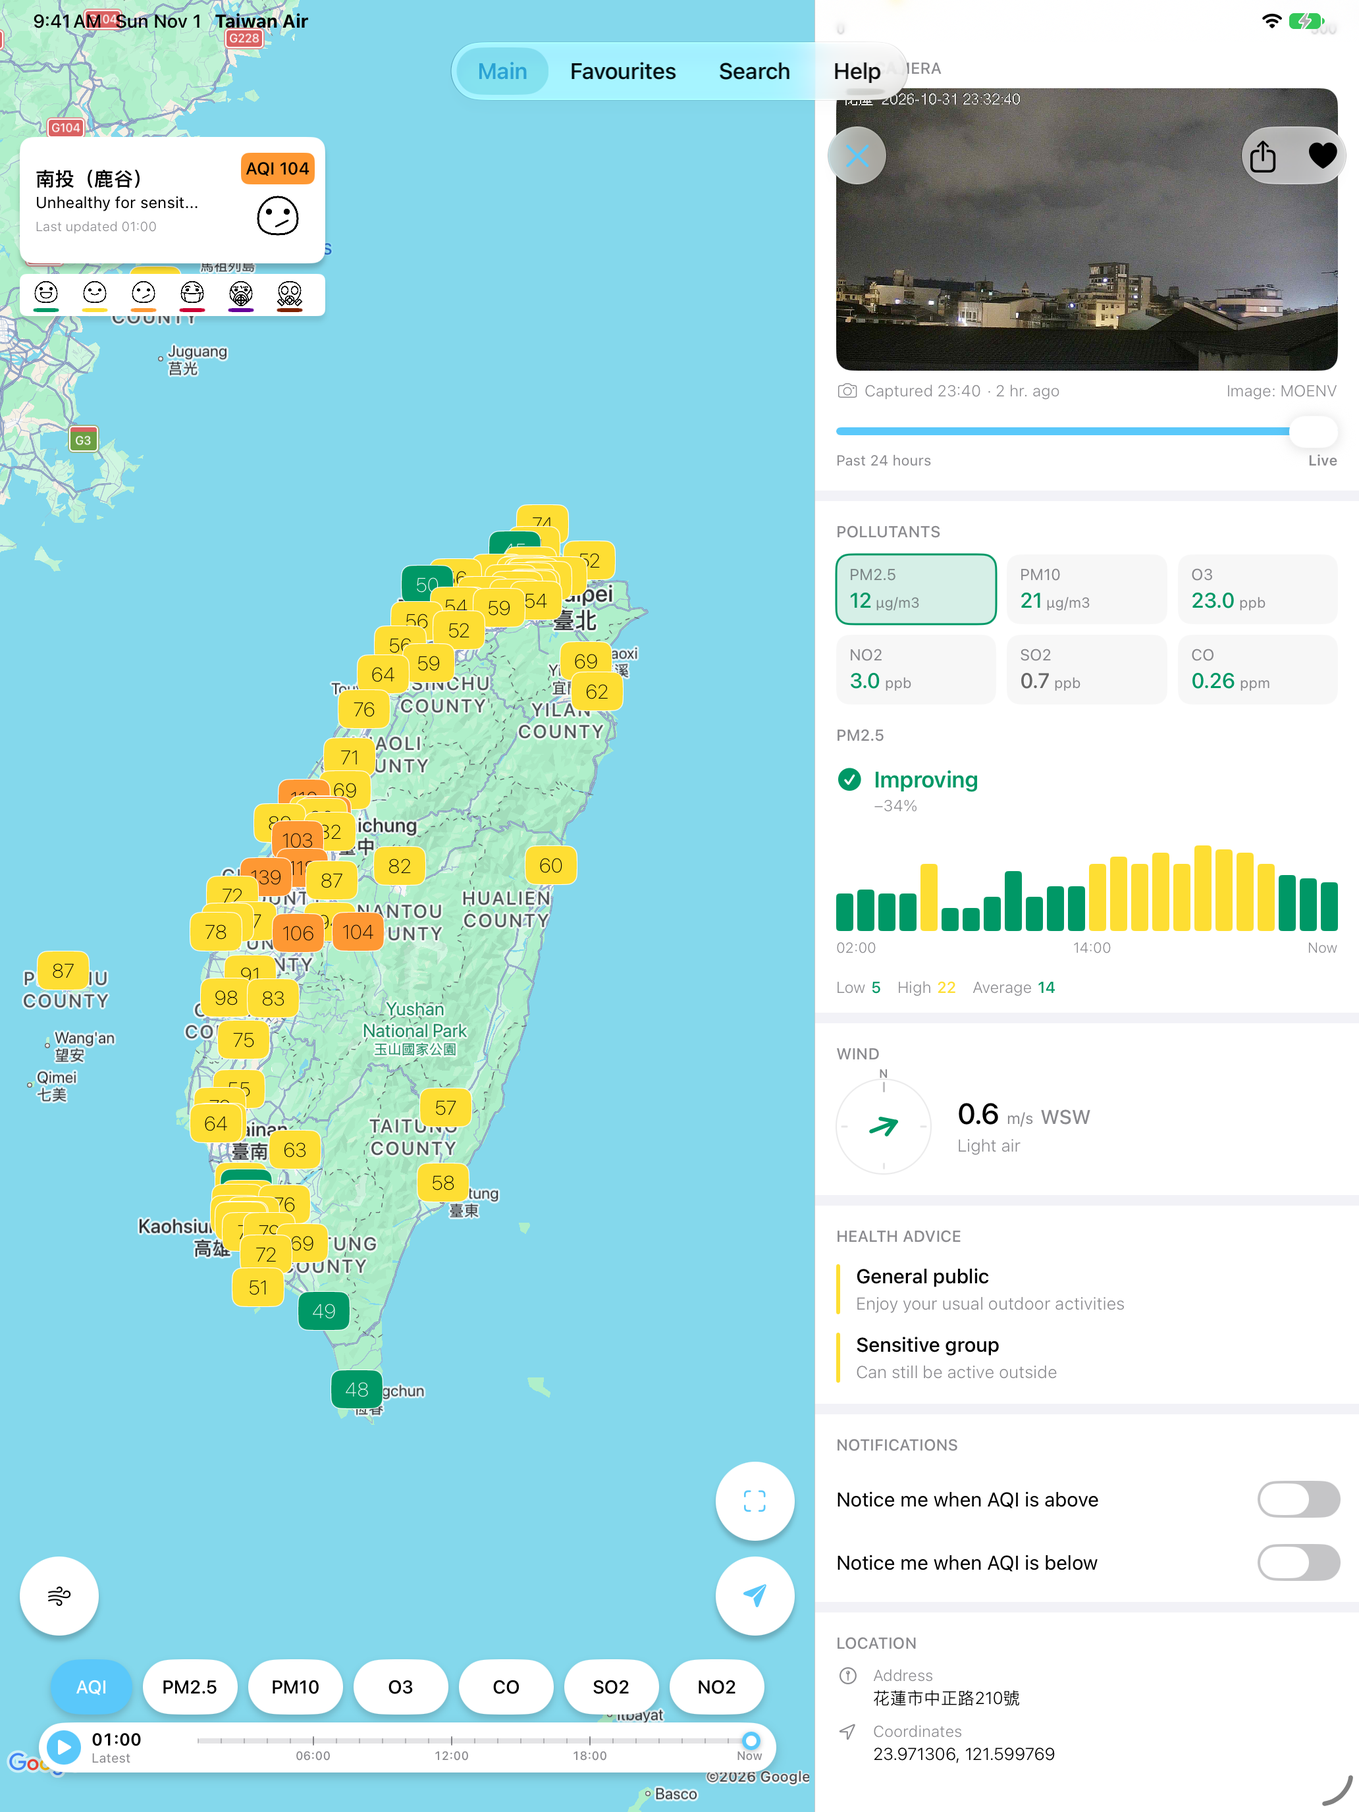
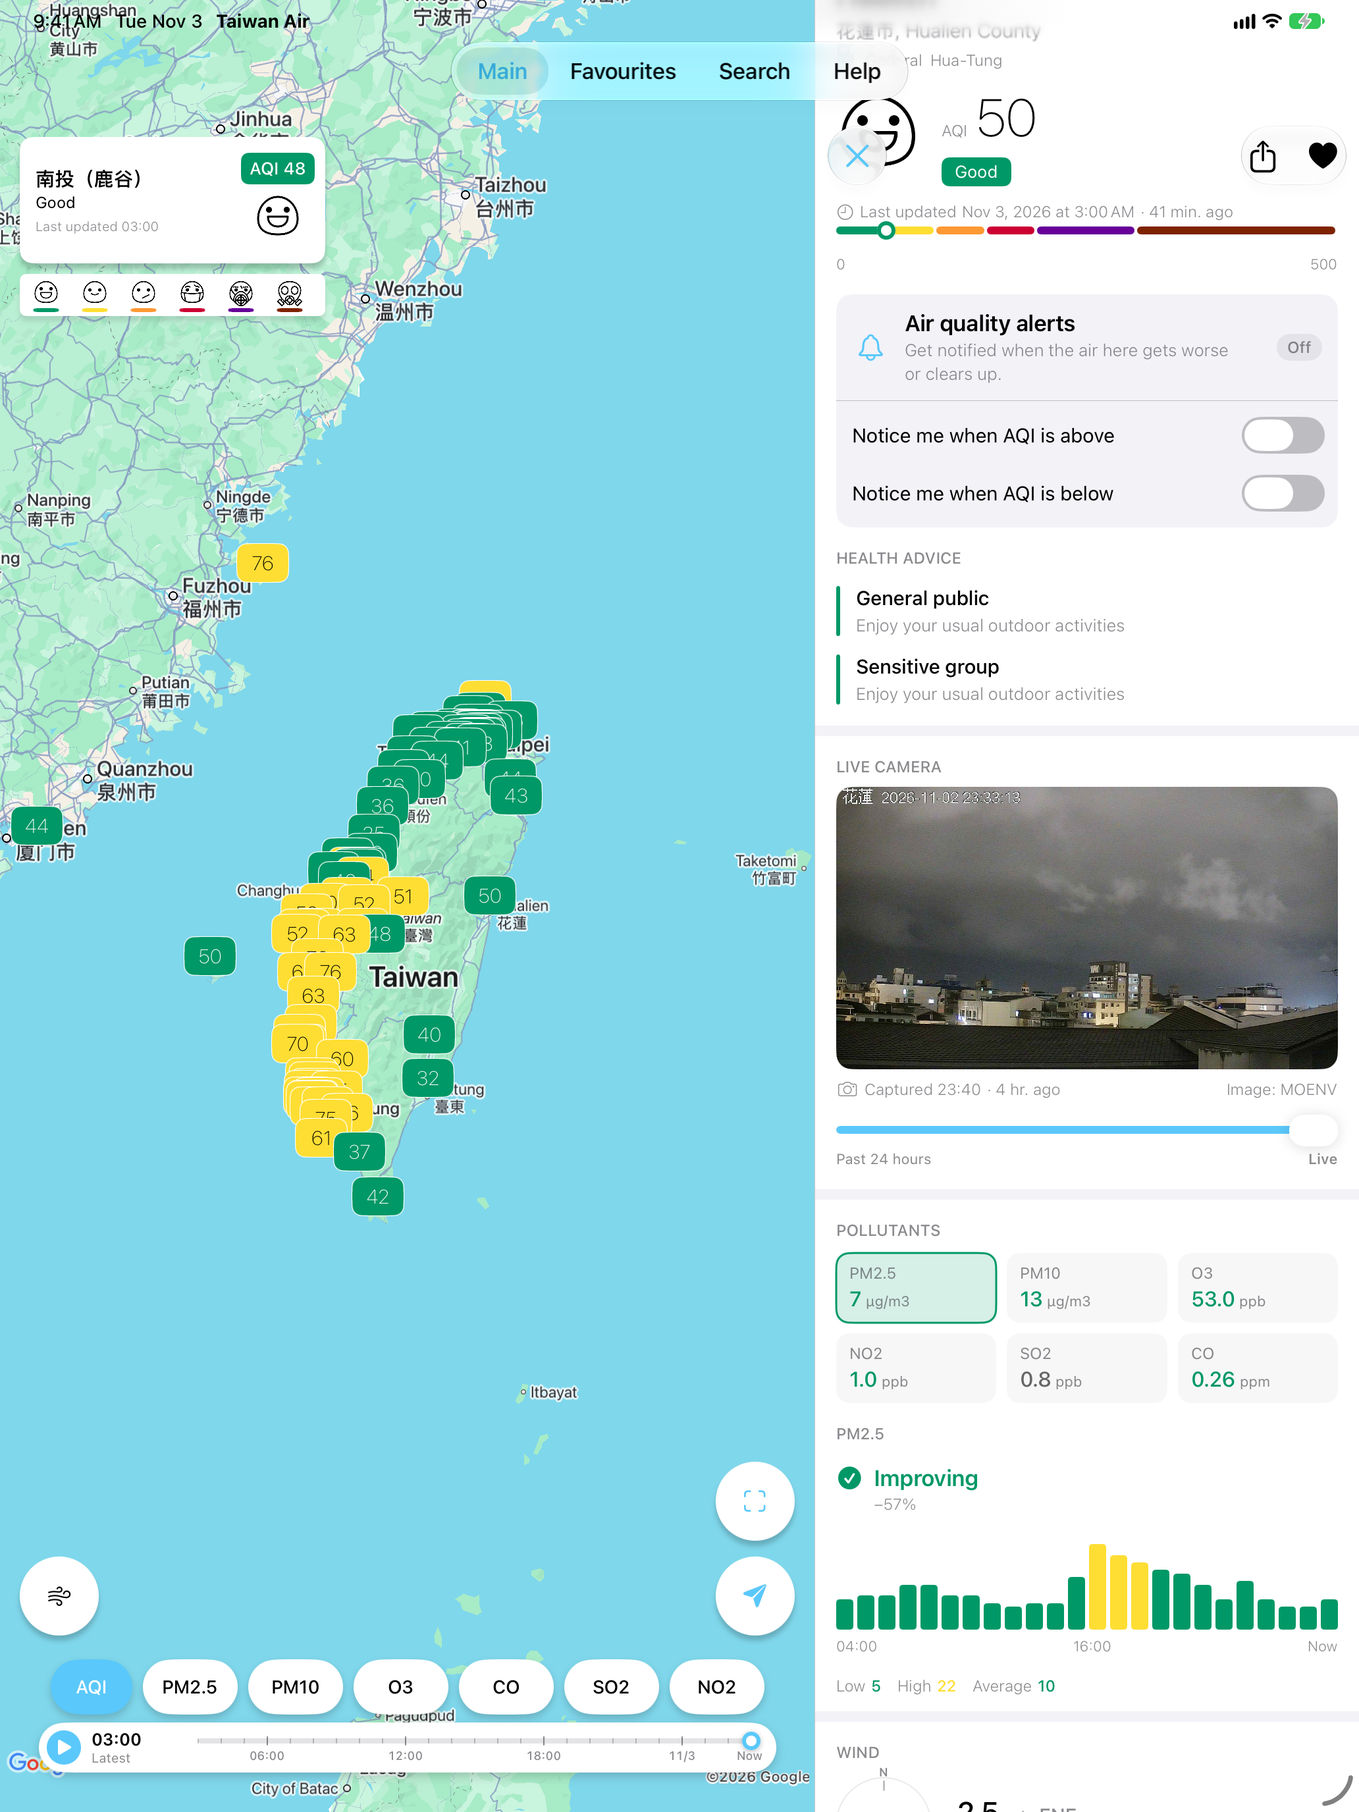
FOX-40: re-capture iPhone/iPad App Store shots on the post-FOX-25 station page (#46)
* FOX-40: re-capture iPhone/iPad App Store shots on the post-FOX-25 station page

- screenshots_raw: fresh iPhone (iPhone 17 Pro, 1206x2622) and iPad Pro 13"
  captures, en-US and zh-Hant, from this branch. The station shot now shows
  the alerts card (off, unlocked) and health advice under the scale; the
  trend shot has PM2.5 picked with its 24-hour chart.
- AppStoreScreenshotTests: skips the FOX-34 welcome flow, turns down a
  notification prompt, fails unless the station page shows the alerts card
  off and without the two-station cap (FOX-37 M3), scrolls until the
  pollutants reach the top or the page stops, and retries the PM2.5 tap
  until the cell is selected.
- PollutantGridView: the charted pollutant carries the isSelected
  accessibility trait.
- capture_screenshots: udid and derived_data options, so a worktree can
  capture on its own simulator and DerivedData.
- fastlane/README.md regenerated from the lane descriptions.

* FOX-40: screenshot harness pins onboardingLegacyInstall off (CI review)

* FOX-40: trend shots keep text clear of the floating buttons (Grok review)

scrollToTop parked the pollutants at 17% of the window and kept that
frame when the page bottomed out, so the 03 trend shots had text under
the close/share buttons: the cam caption and image credit on iPhone, the
first alert row on iPad.

It now aims the pollutants just below the toolbar buttons, then pulls the
page down until no text leaf in the scroll view intersects a floating
[…]

diff --git a/ios/TWAQIUITests/AppStoreScreenshotTests.swift b/ios/TWAQIUITests/AppStoreScreenshotTests.swift
@@ -22,6 +22,12 @@ import XCTest
 ///   SCREENSHOT_PREFIX    file name prefix: "iPhone" or "iPad"
 ///   SCREENSHOT_LANGUAGE  "en" or "zh-Hant"
 ///   SCREENSHOT_MAP_ZOOM  optional; the map's zoom, default 7.2
+///
+/// It writes nothing to OneSignal or Directus: the welcome flow is marked
+/// done, so a fresh install is never asked for notifications, a stray
+/// notification prompt is turned down, and no alert switch or heart is
+/// tapped. The station shot is checked to show the alerts card (FOX-25)
+/// switched off and unlocked before it is taken.
 final class AppStoreScreenshotTests: XCTestCase {
     private var app: XCUIApplication!
     private var outputDir: URL!
@@ -50,11 +56,16 @@ final class AppStoreScreenshotTests: XCTestCase {
 
         app = XCUIApplication()
         // NSUserDefaults' argument domain, for this launch only: `pro` hides
-        // the ad banners, the camera keys frame the whole island, the
-        // favourites are seeded without touching alerts, and the last two
-        // pick the language.
+        // the ad banners, `onboardingCompleted` skips the welcome flow (and
+        // with it the notification prompt), `onboardingLegacyInstall` keeps
+        // the launch-time prompt off even on a simulator with an older
+        // install, the camera keys frame the whole island, the favourites
+        // are seeded without touching alerts, and the last two pick the
+        // language.
         app.launchArguments = [
             "-pro", "YES",
+            "-onboardingCompleted", "YES",
+            "-onboardingLegacyInstall", "NO",
             "-lastestMapLat", "23.7",
             "-lastestMapLon", "121.0",
             "-lastestMapZoom", zoom,
@@ -88,6 +99,7 @@ final class AppStoreScreenshotTests: XCTestCase {
         wait(for: [loaded], timeout: 90)
         // Anything below the reading (forecast, cam frame) arrives after it.
         settle(seconds: 6)
+        assertAlertsCardOffAndUnlocked()
         snapshot("02 station")
 
         // 03: the pollutants scrolled up to the top, with PM2.5 picked so
@@ -104,7 +116,13 @@ final class AppStoreScreenshotTests: XCTestCase {
             .matching(NSPredicate(format: "label BEGINSWITH %@ AND label != %@", "PM2.5", "PM2.5"))
             .firstMatch
         XCTAssertTrue(pm25.waitForExistence(timeout: 10), "No PM2.5 cell in the pollutant grid")
-        pm25.tap()
+        // A tap while the page is still settling from the drags can be taken
+        // as "stop scrolling" and select nothing, so check and tap again.
+        for _ in 0..<3 where !pm25.isSelected {
+            settle(seconds: 2)
+            pm25.tap()
+        }
+        XCTAssertTrue(pm25.isSelected, "PM2.5 isn't picked, so the chart shows AQI")
         settle()
         snapshot("03 trend")
 
@@ -129,31 +147,138 @@ final class AppStoreScreenshotTests: XCTestCase {
     }
 
     /// Drags `element` up to just under the floating close and share
-    /// buttons, slowly so the scroll view doesn't coast past it.
+    /// buttons, slowly so the scroll view doesn't coast past it, then makes
+    /// sure no text is left under those buttons.
+    ///
+    /// Since FOX-25 the alerts card and health advice sit above the
+    /// pollutants, so they start well below the fold. Each drag starts in
+    /// the scroll view's right gutter, clear of the switches and the cam
+    /// scrubber. The page can bottom out before `element` reaches the
+    /// buttons (in the iPad panel it stops with the pollutants mid-screen),
+    /// which can leave a line of text under them; the page is then pulled
+    /// back down until that text clears them. The chart still fits under
+    /// the pollutants either way.
     private func scrollToTop(_ element: XCUIElement) {
-        guard element.waitForExistence(timeout: 10) else { return }
-        let window = app.windows.firstMatch.frame
-        let target = window.minY + window.height * 0.17
-        for _ in 0..<3 {
+        XCTAssertTrue(element.waitForExistence(timeout: 10), "Nothing to scroll to")
+        let scrollView = app.scrollViews.containing(NSPredicate(format: "label == %@", element.label)).firstMatch
+        let overlays = floatingControls(over: scrollView)
+        let floor = overlays.map(\.maxY).max() ?? scrollView.frame.minY
+        let gap: CGFloat = 16
+
+        // Up: the pollutants to just under the buttons, or as far as the
+        // page goes.
+        for _ in 0..<8 {
             let y = element.frame.minY
-            guard y > target + 20 else { return }
-            let distance = min(y - target, window.height * 0.6)
-            let start = element.coordinate(withNormalizedOffset: CGVector(dx: 0.5, dy: 0.5))
-            let end = start.withOffset(CGVector(dx: 0, dy: -distance))
+            guard y > floor + gap + 8 else { break }
+            drag(scrollView, by: -min(y - floor - gap, app.windows.firstMatch.frame.height * 0.5))
+            guard abs(element.frame.minY - y) > 2 else { break }
+        }
+
+        // Down: until no text is under a button. Each pull moves the lowest
+        // covered text just below the button over it; text further up can
+        // then slide under, so check again.
+        for _ in 0..<6 {
+            guard let covered = textUnder(overlays, in: scrollView) else { return }
+            drag(scrollView, by: covered.overlay.maxY + gap - covered.text.minY)
+        }
+        if let covered = textUnder(overlays, in: scrollView) {
+            XCTFail("\"\(covered.label)\" at \(covered.text) is still under a button at \(covered.overlay)")
+        }
+    }
+
+    /// What floats over the top of the station page: the close, share and
+    /// favourite buttons, and in a wide window the tab bar.
+    private func floatingControls(over scrollView: XCUIElement) -> [CGRect] {
+        let page = scrollView.frame
+        let named = app.buttons.matching(NSPredicate(format: "label IN %@", ["Close", "關閉", "Share", "分享"]))
+        let controls = app.navigationBars.buttons.allElementsBoundByIndex
+            + named.allElementsBoundByIndex
+            + app.tabBars.allElementsBoundByIndex
+        let frames = controls
+            .map(\.frame)
+            // Small controls near the top, not a container that spans the window.
+            .filter { !$0.isEmpty && $0.intersects(page) && $0.minY < page.midY && $0.height < page.height / 8 }
+        XCTAssertFalse(frames.isEmpty, "No close or share button over the station page")
+        return frames
+    }
+
+    /// The lowest piece of text in `scrollView` that one of `overlays`
+    /// covers, if any, with the overlay that covers it. A page that can't be
+    /// read fails the run: no answer is not the same as no covered text.
+    private func textUnder(_ overlays: [CGRect], in scrollView: XCUIElement)
+        -> (label: String, text: CGRect, overlay: CGRect)? {
+        let root: XCUIElementSnapshot
+        do {
+            root = try scrollView.snapshot()
+        } catch {
+            XCTFail("Couldn't read the station page to check for covered text: \(error)")
+            return nil
+        }
+        var lowest: (label: String, text: CGRect, overlay: CGRect)?
+        var pending = root.children
+        while let node = pending.popLast() {
+            pending.append(contentsOf: node.children)
+            // Leaves with a label are what a reader sees as text: labels,
+            // switches with their caption, combined rows. The cam frame and
+            // the scrubber aren't text, so they may sit under the buttons.
+            guard node.children.isEmpty, !node.label.isEmpty,
+                  node.elementType != .image, node.elementType != .slider else { continue }
+            let text = node.frame
+            // The glass circle round a toolbar glyph reaches ~8 pt past
+            // the frame XCUITest reports for the button.
+            guard let overlay = overlays.first(where: { $0.insetBy(dx: -8, dy: -8).intersects(text) }) else { continue }
+            if text.minY > lowest?.text.minY ?? -.greatestFiniteMagnitude {
+                lowest = (node.label, text, overlay)
+            }
+        }
+        return lowest
+    }
+
+    /// Moves the page by `distance` points (negative is up), slowly and with
+    /// a hold at the end so it doesn't coast. A drag loses its first few
+    /// points to the touch slop, so a short move overshoots and comes back
+    /// by the same detour; the two losses cancel.
+    private func drag(_ scrollView: XCUIElement, by distance: CGFloat) {
+        let detour: CGFloat = abs(distance) < 60 ? (distance < 0 ? -60 : 60) : 0
+        for step in detour == 0 ? [distance] : [distance + detour, -detour] {
+            let start = scrollView.coordinate(withNormalizedOffset: CGVector(dx: 0.97, dy: step < 0 ? 0.8 : 0.3))
+            let end = start.withOffset(CGVector(dx: 0, dy: step))
             start.press(forDuration: 0.1, thenDragTo: end, withVelocity: .slow, thenHoldForDuration: 0.6)
             settle(seconds: 1)
         }
     }
 
-    /// Location, notification and tracking prompts. Index 1 is the allowing
-    /// choice on each, in either language.
+    /// The alerts card FOX-25 put under the reading: present, off, and
+    /// without the two-station cap caption and locked switches it shows
+    /// until OneSignal has answered (FOX-37 M3). Fails the run rather than
+    /// capture a station page that isn't what the app shows.
+    private func assertAlertsCardOffAndUnlocked() {
+        let title = isChinese ? "空品通知" : "Air quality alerts"
+        let off = isChinese ? "未開啟" : "Off"
+        let card = app.descendants(matching: .any)
+            .matching(NSPredicate(format: "label BEGINSWITH %@", title))
+            .firstMatch
+        XCTAssertTrue(card.waitForExistence(timeout: 15), "No alerts card on the station page")
+        XCTAssertTrue(card.label.hasSuffix(off), "Alerts card isn't off: \(card.label)")
+
+        let cap = app.staticTexts[isChinese ? "最多只能設定 2 個測站" : "You can only enable at most for 2 stations"]
+        let unlocked = expectation(for: NSPredicate(format: "exists == false"), evaluatedWith: cap)
+        wait(for: [unlocked], timeout: 30)
+        XCTAssertFalse(cap.exists, "Alerts card still shows the two-station cap")
+    }
+
+    /// Location and tracking prompts are allowed (index 1 in either
+    /// language); a notification prompt is turned down (index 0), so a
+    /// capture never registers this simulator for push.
     private func dismissSystemAlerts() {
         let springboard = XCUIApplication(bundleIdentifier: "com.apple.springboard")
         for _ in 0..<3 {
             let alert = springboard.alerts.firstMatch
             guard alert.waitForExistence(timeout: 5) else { return }
+            let isNotifications = alert.label.localizedCaseInsensitiveContains("notification")
+                || alert.label.contains("通知")
             let buttons = alert.buttons
-            buttons.element(boundBy: min(1, buttons.count - 1)).tap()
+            buttons.element(boundBy: isNotifications ? 0 : min(1, buttons.count - 1)).tap()
         }
     }
 

diff --git a/ios/TWAQIUITests/DuoScreenshotTests.swift b/ios/TWAQIUITests/DuoScreenshotTests.swift
@@ -72,26 +72,8 @@ final class DuoScreenshotTests: XCTestCase {
         settle()
         snapshot("02")
 
-        // 03: the station list with that station's details beside it.
-        app.buttons[isChinese ? "搜尋" : "Search"].firstMatch.tap()
-        let search = app.searchFields.firstMatch
-        XCTAssertTrue(search.waitForExistence(timeout: 15), "No search field")
-        search.tap()
-        // Typed in English in both languages: the list also matches the
-        // English name, and the simulator keyboard can't type Chinese.
-        // Return submits the search, which also puts the keyboard away.
-        search.typeText("Hualien\n")
-        // The row's label is "name, locality" ("name、locality" in Chinese).
-        // Matching on the separator skips both the map marker (bare name) and
-        // look-alikes such as "Hualien (Meilun)".
-        let row = app.buttons
-            .matching(NSPredicate(format: "label BEGINSWITH %@ OR label BEGINSWITH %@",
-                                  station + ",", station + "、"))
-            .firstMatch
-        XCTAssertTrue(row.waitForExistence(timeout: 15), "No list row for \(station)")
-        row.tap()
-        settle()
-        snapshot("03")
+        // 03 (station list with search) is not captured: on iOS 27.2 the
+        // search field isn't exposed to XCUITest. Add it back when it is.
     }
 
     /// Location and notification prompts. Index 1 is "Allow While Using App"

diff --git a/ios/TWAQIUITests/ShareScreenshotTests.swift b/ios/TWAQIUITests/ShareScreenshotTests.swift
@@ -75,7 +75,10 @@ final class ShareScreenshotTests: XCTestCase {
         // The share sheet's own list of actions; its accessibility identifier
         // has been "ActivityListView" since iOS 13.
         let sheet = app.otherElements["ActivityListView"].firstMatch
-        if !sheet.waitForExistence(timeout: 15) {
+        // On the Duo the sheet is a popover whose content isn't in the app's
+        // accessibility tree, so its dismiss region also counts as open.
+        let popover = app.otherElements["PopoverDismissRegion"].firstMatch
+        if !sheet.waitForExistence(timeout: 15), !popover.exists {
             print("SHARE-DEBUG\n\(app.debugDescription)")
             XCTFail("Share sheet did not open")
         }

diff --git a/ios/TWAQI/Views/Details/PollutantGridView.swift b/ios/TWAQI/Views/Details/PollutantGridView.swift
@@ -86,5 +86,8 @@ struct PollutantGridView: View {
         }
         .buttonStyle(PlainButtonStyle())
         .disabled(!hasReading)
+        // The charted pollutant reads as selected to VoiceOver (and to the
+        // App Store screenshot test), not only by its tint.
+        .accessibilityAddTraits(isSelected ? .isSelected : [])
     }
 }

diff --git a/ios/fastlane/README.md b/ios/fastlane/README.md
@@ -35,15 +35,53 @@ Frame only the iPhone Duo captures (fastlane/screenshots_raw/<locale>/iPhone Duo
 
 Leaves the iPhone, iPad and watch screenshots already framed alone
 
+### ios capture_screenshots
+
+```sh
+[bundle exec] fastlane ios capture_screenshots
+```
+
+Capture the raw App Store screenshots of the four headline features on one simulator
+
+AppStoreScreenshotTests takes map, station, 24-hour chart and Favourites, once per locale, into
+
+fastlane/screenshots_raw/<locale>/<prefix> NN <name>.png. Then run frame_screenshots
+
+Options: device (simulator name, default "iPhone 18 Pro"), udid (a simulator's id, used instead
+
+of device, so parallel worktrees can each capture on their own), prefix ("iPhone" or "iPad",
+
+default "iPhone"), zoom (map zoom, default 7.2), derived_data (default /tmp/twaqi-screenshots).
+
+The Duo keeps capture_duo_screenshots
+
+### ios capture_duo_screenshots
+
+```sh
+[bundle exec] fastlane ios capture_duo_screenshots
+```
+
+Capture the raw iPhone Duo screenshots on the unfolded iPhone Duo simulator (iOS 27.1+)
+
+DuoScreenshotTests takes 01-02, once per locale, into
+
+fastlane/screenshots_raw/<locale>/iPhone Duo NN.png. Then run frame_duo_screenshots
+
+Options: device (simulator name, default "iPhone Duo")
+
 ### ios upload_screenshots
 
 ```sh
 [bundle exec] fastlane ios upload_screenshots
 ```
 
-Upload screenshots only to App Store Connect for 3.1.2
+Upload screenshots only to App Store Connect for 3.1.4
 
 Does not touch the binary, the metadata, or the review submission
+
+Leaves out the iPhone Duo images: overwrite removes the Duo set already on the version,
+
+and upload_duo_screenshots adds a fresh one
 
 ### ios upload_watch_screenshots
 
@@ -51,7 +89,7 @@ Does not touch the binary, the metadata, or the review submission
 [bundle exec] fastlane ios upload_watch_screenshots
 ```
 
-Upload the Apple Watch screenshots only to App Store Connect for 3.1.2
+Upload the Apple Watch screenshots only to App Store Connect for 3.1.4
 
 Leaves the iPhone and iPad screenshots already on the version alone
 
@@ -61,9 +99,11 @@ Leaves the iPhone and iPad screenshots already on the version alone
 [bundle exec] fastlane ios upload_duo_screenshots
 ```
 
-Upload the iPhone Duo screenshots only to App Store Connect for 3.1.2
+Upload the iPhone Duo screenshots only to App Store Connect for 3.1.4
 
 Leaves the iPhone, iPad and watch screenshots already on the version alone
+
+Refuses a framed Duo image whose raw capture isn't in fastlane/screenshots_raw
 
 ### ios frame_vision_screenshots
 
@@ -81,7 +121,7 @@ Capture them first with tools/capture_vision_screenshots.sh
 [bundle exec] fastlane ios upload_vision_screenshots
 ```
 
-Upload the Vision Pro screenshots only to the visionOS 3.1.2 version
+Upload the Vision Pro screenshots only to the visionOS 3.1.4 version
 
 Replaces the Vision Pro set in each locale; leaves every other platform alone
 
@@ -91,7 +131,7 @@ Replaces the Vision Pro set in each locale; leaves every other platform alone
 [bundle exec] fastlane ios upload_metadata
 ```
 
-Upload text metadata only to App Store Connect for 3.1.2
+Upload text metadata only to App Store Connect for 3.1.4
 
 Does not touch the binary, the screenshots, or the review submission
 
@@ -101,9 +141,19 @@ Does not touch the binary, the screenshots, or the review submission
 [bundle exec] fastlane ios release_build
 ```
 
-Archive a Release build of 3.1.2 and upload it to App Store Connect
+Archive a Release build of 3.1.4 and upload it to App Store Connect
 
 Bumps every target's build number past the latest one on TestFlight. Never submits for review
+
+### ios asc_version_state
+
+```sh
+[bundle exec] fastlane ios asc_version_state
+```
+
+Print the App Store Connect state of the 3.1.4 version on each platform. Read-only
+
+Screenshot upload lanes refuse to run unless the state is one where screenshots can be edited
 
 ### ios screenshots
 
